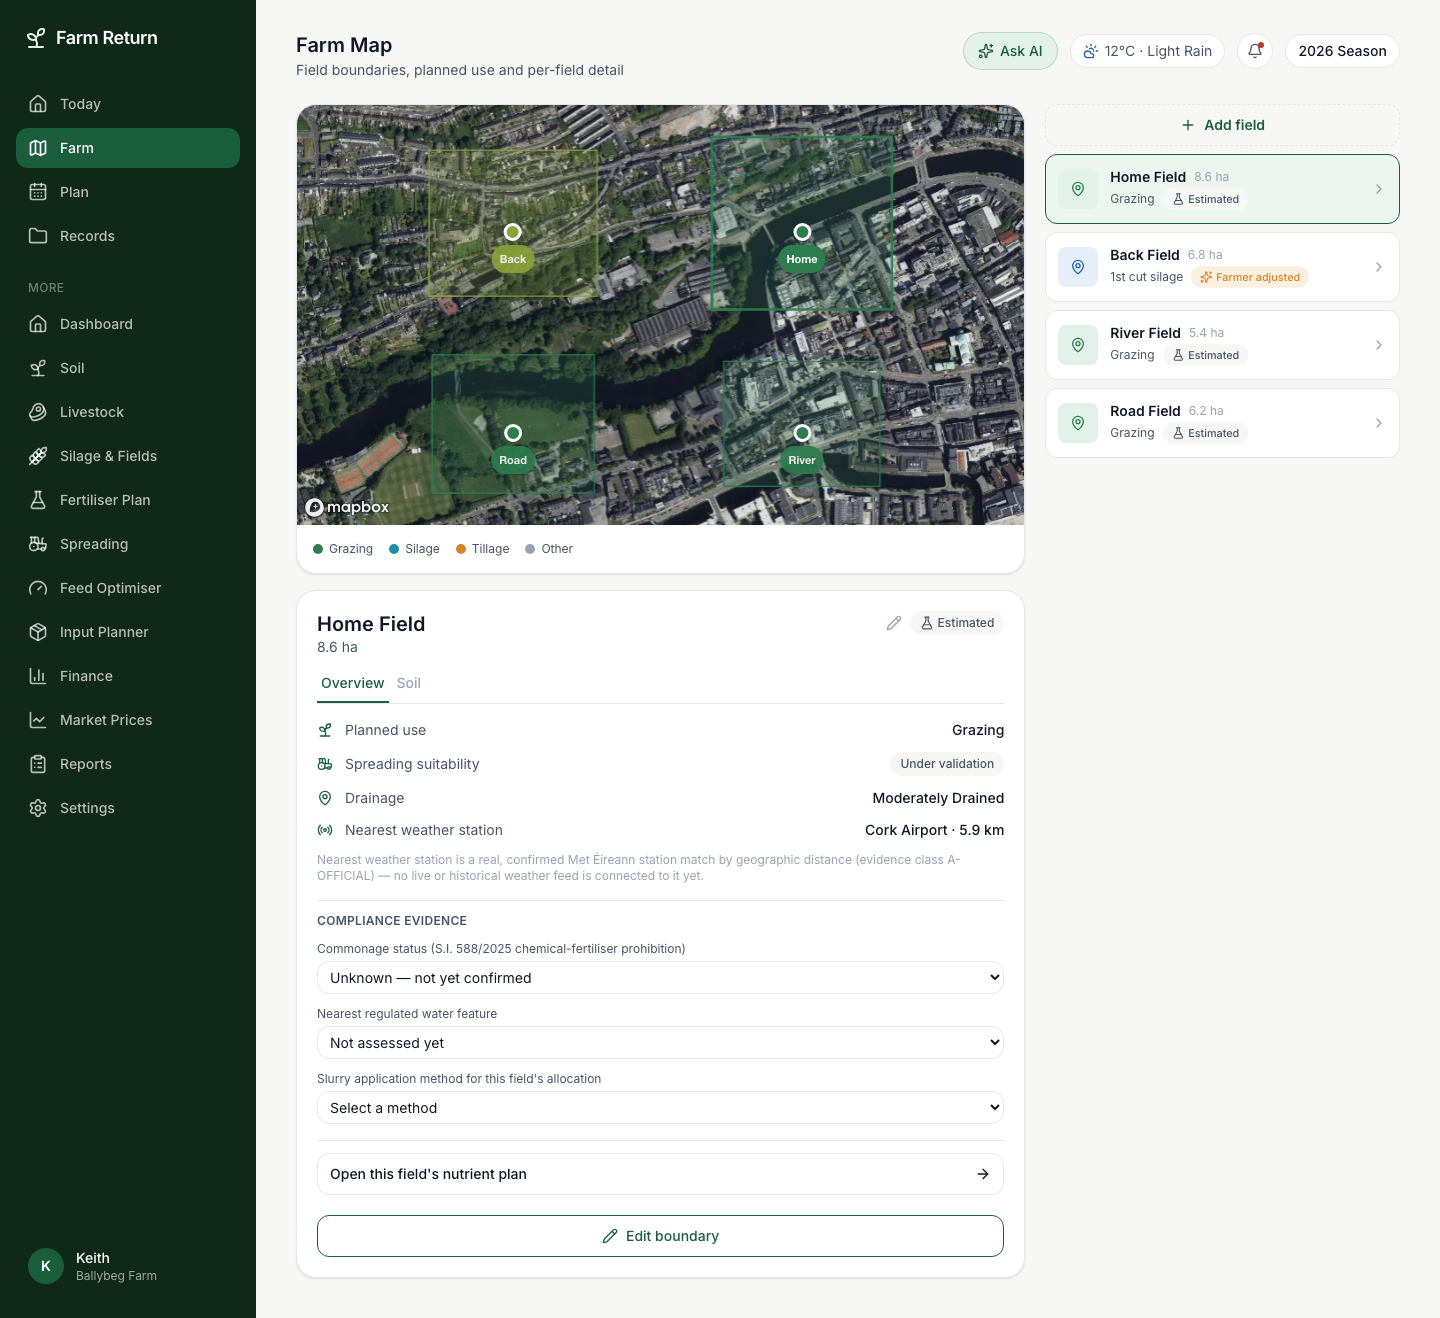
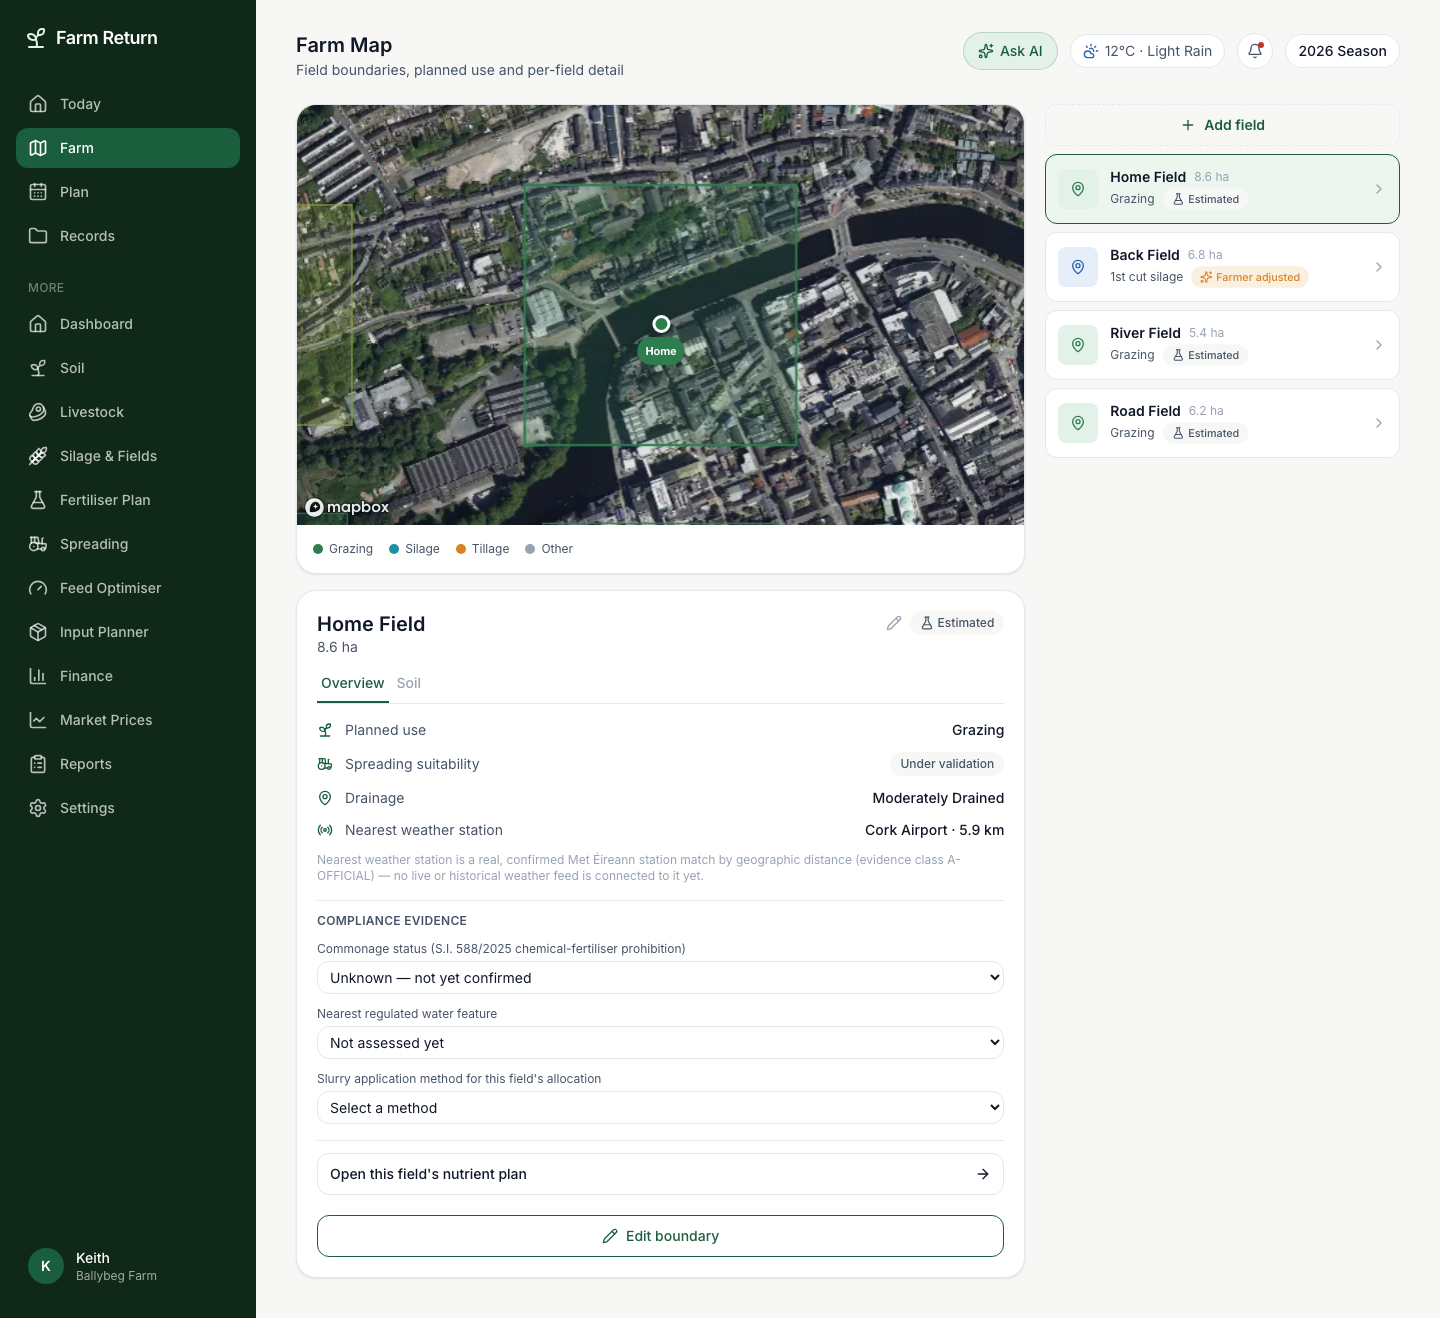
Phase V2 round 2: fix frozen selection paint, add real camera fly-to
Codex visual audit round 1 (fidelity 6.8/10, PARTIAL, dashboard drift
LOW):

- High: "selecting a field only updates the list/drawer; the map does
  not zoom into or visually centre that field." Real bug, not just a
  missing feature: `fr-field-line`/`fr-field-fill`'s selected-field
  paint was set once inside the mount effect's `map.on("load", ...)`
  callback, so it silently froze on whichever field was selected at
  first load — a later selection change updated markers (that effect
  already re-ran) but never re-applied the boundary layers' own paint.
  Fixed with `map.setPaintProperty` re-applied every time the marker
  effect runs. Added `MapHero`'s new opt-in `flyToSelection` prop —
  Farm/Field exploration now flies the camera to the selected field's
  real bounds on selection; Today keeps `selectedFieldId` for visual
  emphasis only (no unwanted camera movement when the leading Prompt
  changes) and doesn't set the new prop.
- Medium: "selected field only differentiated by a subtle marker scale
  and boundary-width change." Selected marker scale 1.1->1.22, selected
  line-width 2.5->3.5px, selected fill-opacity 0.2->0.34 (unselected
  stays faint at 0.16) — a real, visible focus state now that its paint
  actually updates.

Not fixed (accepted, consistent with Phase V1's own already-documented
BLOCKED_HUMAN item): marker/pin caption styling and the mock fixture's
urban Cork geography — the same open design-taste and demo-data items
already logged for Today.
[…]

Changed region(s): [[0.1875, 0.0622, 0.7188, 0.4044]]

diff --git a/src/components/farm/MapHero.tsx b/src/components/farm/MapHero.tsx
@@ -37,6 +37,7 @@ export function MapHero({
   center,
   interactive = true,
   plain = false,
+  flyToSelection = false,
   className,
   children,
 }: {
@@ -60,6 +61,15 @@ export function MapHero({
    * satellite-streets (labels help locate a real boundary while
    * drawing/searching); a read-only hero has no such need for them. */
   plain?: boolean;
+  /** Codex audit round 1 (Phase V2, Farm/Field exploration): "selecting
+   * a field only updates the list/drawer; the map does not zoom into or
+   * visually centre that field." When true, a `selectedFieldId` change
+   * flies the camera to that field's real bounds — the Farm/Field
+   * exploration screen's own real tap-to-select behaviour. Today passes
+   * `selectedFieldId` purely for visual emphasis (which field a Prompt
+   * concerns) and deliberately leaves this false — the map shouldn't
+   * jump around every time the leading Prompt changes. */
+  flyToSelection?: boolean;
   className?: string;
   /** Overlay content (gradient legibility scrim + cards) rendered above
    * the map surface — the "light legible cards over real imagery"
@@ -211,6 +221,41 @@ export function MapHero({
   useEffect(() => {
     const map = mapRef.current;
     if (!map) return;
+
+    // Codex audit round 1 (Phase V2): the selected-field boundary
+    // emphasis was baked into `fr-field-line`/`fr-field-fill`'s paint
+    // *once*, inside the mount effect's `map.on("load", ...)` callback
+    // above — real for whatever field was selected at first load, but
+    // frozen after that: a later selection change updated markers (this
+    // effect already re-runs) but never touched the boundary layers'
+    // own paint, so the "selected" field's boundary silently stopped
+    // matching the real selection. `setPaintProperty` re-applies both
+    // layers' selection-dependent paint every time this effect runs
+    // (a no-op if the layers don't exist yet, e.g. before the map's own
+    // "load" has fired for the very first time).
+    if (map.getLayer("fr-field-line")) {
+      map.setPaintProperty("fr-field-line", "line-width", [
+        "case",
+        ["==", ["get", "fieldId"], selectedFieldId ?? ""],
+        3.5,
+        1.5,
+      ]);
+      map.setPaintProperty("fr-field-line", "line-opacity", [
+        "case",
+        ["==", ["get", "fieldId"], selectedFieldId ?? ""],
+        0.95,
+        0.7,
+      ]);
+    }
+    if (map.getLayer("fr-field-fill")) {
+      map.setPaintProperty("fr-field-fill", "fill-opacity", [
+        "case",
+        ["==", ["get", "fieldId"], selectedFieldId ?? ""],
+        0.34,
+        0.16,
+      ]);
+    }
+
     markersRef.current.forEach((m) => m.remove());
     const toneBg: Record<MapTone, string> = {
       good: "#2E7D4F",
@@ -235,7 +280,7 @@ export function MapHero({
       el.type = "button";
       el.setAttribute("aria-label", statusLabel ? `${field.name} — ${statusLabel}` : field.name);
       el.className = "flex flex-col items-center gap-1 transition-transform";
-      if (selected) el.style.transform = "scale(1.1)";
+      if (selected) el.style.transform = "scale(1.22)";
 
       const dot = document.createElement("span");
       dot.className = "block size-[18px] rounded-full border-[3px] border-white shadow-md";
@@ -256,6 +301,39 @@ export function MapHero({
     });
     // eslint-disable-next-line react-hooks/exhaustive-deps -- getTone/onSelectField are inline closures from the caller; re-running per render (rather than gating on a stable identity) is the correct behaviour here, not a bug — it's what keeps a Prompt-driven tone change reflected immediately.
   }, [fields, selectedFieldId]);
+
+  // Codex audit round 1 (Phase V2, Farm/Field exploration): real
+  // tap-to-select needs a real camera response, not just a list/drawer
+  // update elsewhere on the page — flies to the selected field's own
+  // real polygon bounds. Opt-in (`flyToSelection`) so Today's own
+  // visual-emphasis-only use of `selectedFieldId` never triggers
+  // unwanted camera movement.
+  useEffect(() => {
+    if (!flyToSelection) return;
+    const map = mapRef.current;
+    const field = mappedFields.find((f) => f.id === selectedFieldId);
+    if (!map || !field) return;
+    const ring = field.polygon.coordinates[0] ?? [];
+    if (ring.length === 0) return;
+    let minLng = Infinity;
+    let maxLng = -Infinity;
+    let minLat = Infinity;
+    let maxLat = -Infinity;
+    for (const [lng, lat] of ring) {
+      if (lng < minLng) minLng = lng;
+      if (lng > maxLng) maxLng = lng;
+      if (lat < minLat) minLat = lat;
+      if (lat > maxLat) maxLat = lat;
+    }
+    map.fitBounds(
+      [
+        [minLng, minLat],
+        [maxLng, maxLat],
+      ],
+      { padding: 80, maxZoom: 18, duration: 600 },
+    );
+    // eslint-disable-next-line react-hooks/exhaustive-deps -- mappedFields is derived fresh every render from the fields prop; keying on selectedFieldId (and the map/flyToSelection refs) is what actually determines whether this should re-fly, not a new array identity for the same real field set.
+  }, [selectedFieldId, flyToSelection]);
 
   return (
     <div className={cn("relative isolate overflow-hidden bg-[#e9e4d8]", className)}>

diff --git a/src/app/(app)/fields/page.tsx b/src/app/(app)/fields/page.tsx
@@ -138,6 +138,7 @@ function FieldsPageContent() {
               onSelectField={setSelectedFieldId}
               center={farm.location.centroid}
               plain
+              flyToSelection
               className="h-[50vh] min-h-[360px] lg:h-[420px]"
             />
             <div className="flex items-center justify-between gap-3 p-4">
